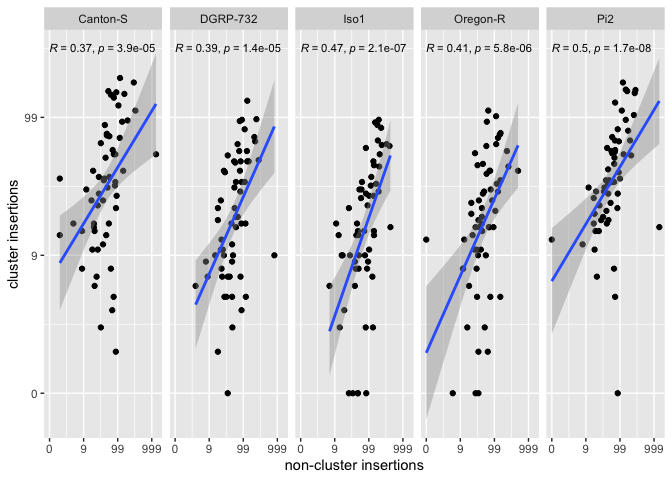
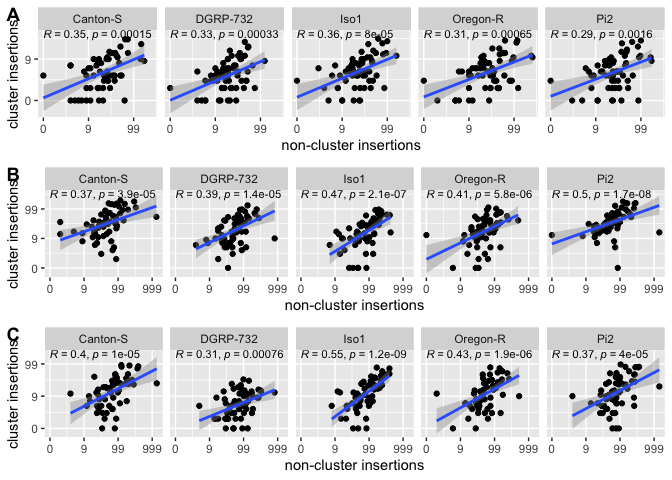
added the other 2 approaches

diff --git a/rmd-scripts/supp_cor-individually.md b/rmd-scripts/supp_cor-individually.md
@@ -42,6 +42,72 @@ infoP$AF<-round(infoP$AF,digits = 1)
 names(infoP)<-c("TE","AF")
 
 
+###popTE2:
+
+#t<-read.table("/Users/filipwierzbicki/Desktop/trap_model/analysis/abu/popTE2/sep.mf30_brenecluster.forR")
+#names(t)<-c("count","id","TE","region")
+
+tseg<-read.table("/Users/filipwierzbicki/Desktop/trap_model/analysis/abu/popTE2/haploid_counts/sep.mf30_brenecluster-seg")
+tfix<-read.table("/Users/filipwierzbicki/Desktop/trap_model/analysis/abu/popTE2/haploid_counts/sep.mf30_brenecluster-fixed")
+t<-rbind(tseg,tfix)
+names(t)<-c("count","id","TE","region","id2")
+for (sid in unique(t$id2)) { 
+  i <- t$id2 == sid
+  a = sum(t$count[i])
+  t$sum[i] = a
+}
+t<-subset(t,select=c("sum","id","TE","region"))
+t<-unique(t)
+names(t)<-c("count","id","TE","region")
+t$count<-round(t$count+0.00000001)
+
+t$id2<-paste(t$id,t$TE,sep="_")
+
+cl<-subset(t,region=="cl")
+cl<-subset(cl,select=c("count","id2"))
+
+rest<-subset(t,region!="cl")
+rest<-subset(rest,select=c("count","id2"))
+for (sid in unique(rest$id2)) { 
+  i <- rest$id2 == sid
+  a = sum(rest$count[i])
+  rest$sum[i] = a
+}
+rest<-subset(rest,select=c("sum","id2"))
+names(rest)<-c("count","id2")
+rest<-unique(rest)
+
+cr<-full_join(cl,rest,by="id2")
+names(cr)<-c("cluster","id2","noncluster")
+
+cr$id<-gsub("_.*","",cr$id2)
+cr$TE<-gsub(".*_","",cr$id2)
+
+t<-cr
+
+t[is.na(t)] <- 0
+
+t<-left_join(t,infoP,by="TE")
+#including AF threshold
+t<-subset(t,AF!="NA")##remove missing AFs
+t<-subset(t,AF<=0.2)
+
+cC<-t
+
+cC$logcluster<-log10(cC$cluster+1)
+cC$lognoncluster<-log10(cC$noncluster+1)
+
+id<-c(1,2,3,4,5)
+strain<-c("Canton-S","DGRP-732","Iso1","Oregon-R","Pi2")
+ids<-data.frame(id,strain)
+
+cC<-merge(cC,ids,by="id")
+cC$id<-cC$strain
+
+gPop<-ggplot(cC,aes(x=lognoncluster,y=logcluster))+geom_point()+stat_cor(method = "kendall", label.x = 0, label.y = 1.6,size=3)+ 
+  geom_smooth(method='lm', formula= y~x)+xlab("non-cluster insertions")+ylab("cluster insertions")+scale_x_continuous(breaks=c(0,1,2,3),labels=c("0","9","99","999"))+scale_y_continuous(breaks=c(0,1,2,3),labels=c("0","9","99","999"))+facet_wrap(~id,nrow=1)
+
+
 
 
 ####
@@ -83,18 +149,13 @@ cr$TE<-gsub(".*\\+","",cr$id2)
 
 t<-cr
 
-
 t[is.na(t)] <- 0
-
-
 
 t<-left_join(t,info,by="TE")
 
 #including AF threshold
 t<-subset(t,AF!="NA")##remove missing AFs
 t<-subset(t,AF<=0.2)
-
-
 
 cC<-t
 
@@ -106,12 +167,74 @@ gC<-ggplot(cC,aes(x=lognoncluster,y=logcluster))+geom_point()+stat_cor(method = 
   geom_smooth(method='lm', formula= y~x)+xlab("non-cluster insertions")+ylab("cluster insertions")+scale_x_continuous(breaks=c(0,1,2,3),labels=c("0","9","99","999"))+scale_y_continuous(breaks=c(0,1,2,3),labels=c("0","9","99","999"))+facet_wrap(~id,nrow=1)
 
 
-plot(gC)
+
+###proTRAC_p0.05 only 
+
+t1<-read.table("/Users/filipwierzbicki/Desktop/trap_model/analysis/abu/protrac/protrac_gapped_cluster_bed/Canton-S_p0.05_gapped_protrac_summary.forR")
+t2<-read.table("/Users/filipwierzbicki/Desktop/trap_model/analysis/abu/protrac/protrac_gapped_cluster_bed/DGRP-732_p0.05_gapped_protrac_summary.forR")
+t3<-read.table("/Users/filipwierzbicki/Desktop/trap_model/analysis/abu/protrac/protrac_gapped_cluster_bed/Iso1_p0.05_gapped_protrac_summary.forR")
+t4<-read.table("/Users/filipwierzbicki/Desktop/trap_model/analysis/abu/protrac/protrac_gapped_cluster_bed/Oregon-R_p0.05_gapped_protrac_summary.forR")
+t5<-read.table("/Users/filipwierzbicki/Desktop/trap_model/analysis/abu/protrac/protrac_gapped_cluster_bed/Pi2_p0.05_gapped_protrac_summary.forR")
+
+t<-rbind(t1,t2,t3,t4,t5)
+
+names(t)<-c("count","id","TE","region")
+
+t$id2<-paste(t$id,t$TE,sep="+")
+
+cl<-subset(t,region=="cluster")
+cl<-subset(cl,select=c("count","id2"))
+
+rest<-subset(t,region!="cluster")
+rest<-subset(rest,select=c("count","id2"))
+
+for (sid in unique(rest$id2)) { 
+  i <- rest$id2 == sid
+  a = sum(rest$count[i])
+  rest$sum[i] = a
+}
+rest<-subset(rest,select=c("sum","id2"))
+names(rest)<-c("count","id2")
+rest<-unique(rest)
+
+cr<-full_join(cl,rest,by="id2")
+names(cr)<-c("cluster","id2","noncluster")
+
+cr$id<-gsub("\\+.*","",cr$id2)
+cr$TE<-gsub(".*\\+","",cr$id2)
+
+t<-cr
+
+t[is.na(t)] <- 0
+
+t<-left_join(t,info,by="TE")
+
+#including AF threshold
+t<-subset(t,AF!="NA")##remove missing AFs
+t<-subset(t,AF<=0.2)
+
+cC<-t
+
+cC$logcluster<-log10(cC$cluster+1)
+cC$lognoncluster<-log10(cC$noncluster+1)
+
+cC$id<-gsub("\\_.*","",cC$id)
+
+gP<-ggplot(cC,aes(x=lognoncluster,y=logcluster))+geom_point()+stat_cor(method = "kendall", label.x = 0, label.y = 2.3,size=3)+ 
+  geom_smooth(method='lm', formula= y~x)+xlab("non-cluster insertions")+ylab("cluster insertions")+scale_x_continuous(breaks=c(0,1,2,3),labels=c("0","9","99","999"))+scale_y_continuous(breaks=c(0,1,2,3),labels=c("0","9","99","999"))+facet_wrap(~id,nrow=1)
+
+
+
+gcor<-ggarrange(gPop, gC, gP,
+                labels = c("A", "B", "C","D"),
+                ncol = 1, nrow = 3)
+
+plot(gcor)
 ```
 
 ![](supp_cor-individually_files/figure-gfm/unnamed-chunk-1-1.png)<!-- -->
 
 ``` r
-ggsave("/Users/filipwierzbicki/Desktop/trap_model/analysis/abu/figures/correlation_supp.pdf",width=8,height=3)
-ggsave("/Users/filipwierzbicki/Desktop/trap_model/analysis/abu/figures/correlation_supp.png",width=8,height=3)
+ggsave("/Users/filipwierzbicki/Desktop/trap_model/analysis/abu/figures/correlation_supp.pdf",width=8,height=9)
+ggsave("/Users/filipwierzbicki/Desktop/trap_model/analysis/abu/figures/correlation_supp.png",width=8,height=9)
 ```
